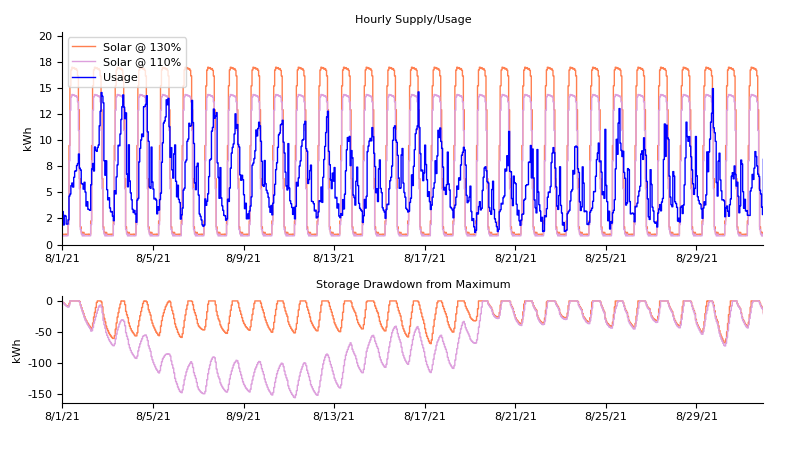
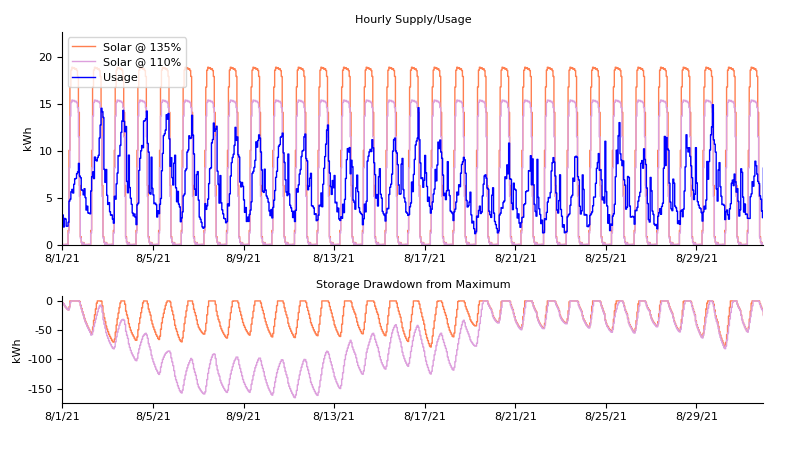
many updates to storage post

diff --git a/energyStorage.py b/energyStorage.py
@@ -25,7 +25,7 @@ class SupplyGenerator:
         
     def period_average(self, multiplier = 1.0):
         period_average = np.average(self.usage)
-        print(f"period average {period_average:0.1f}") 
+        print(f"period average {period_average:0.2f}") 
         function = [multiplier * period_average for dt in self.times]
         return function
 
@@ -67,10 +67,14 @@ class SupplyGenerator:
         return function
 
 
-    def solar_function(self, path: str, multiplier = 1.0):
+    def solar_function(self, path: str, multiplier = 1.0, night_generation_shift = True):
         total_usage = sum(self.usage)
-        
+
         df_solar = pd.read_csv(path)
+
+        if night_generation_shift:
+            df_solar = df_solar.apply(lambda x: x - x.min())
+            df_solar.to_csv("test.csv")
 
         timezone = pytz.timezone("America/Los_Angeles")
         months = [dt.strftime("%b") for dt in self.times]
@@ -94,11 +98,14 @@ class SupplyGenerator:
 class StorageAnalyzer():
 
     def plotStorageAnalysis(self,
+                            datetimes: List,
+                            usage,
                             supply_series: List,
                             storage_balance_series: List,
                             labels: List[str] = None,
                             colors: List = None,
                             legend_position: str = "upper left",
+                            periodicity_label = "Hourly",
                             path: str = None):
 
         if colors is None:
@@ -115,7 +122,7 @@ class StorageAnalyzer():
         fig.tight_layout(pad = 2.5)
 
         max_supply = max([max(x) for x in supply_series])
-        ax[0].set_ylim((0,1.2*max(max(self.usage), max_supply)))
+        ax[0].set_ylim((0,1.2*max(max(usage), max_supply)))
         ax[0].set_xlim(self.times[0], self.times[-1])
         ax[1].set_xlim(self.times[0], self.times[-1])
                         
@@ -133,22 +140,20 @@ class StorageAnalyzer():
         ax[1].set_ylabel(self.units)
 
         ax[0].xaxis.set_major_formatter(DateFormatter('%-m/%-d/%y'))
-#        ax[0].xaxis.set_major_locator(plt.MaxNLocator(6))
 
         ax[1].xaxis.set_major_formatter(DateFormatter('%-m/%-d/%y'))
-#        ax[1].xaxis.set_major_locator(plt.MaxNLocator(6))
 
 
         # plot usage once, applies to all
 
         for supply, storage_balance, color, label in zip(supply_series, storage_balance_series, colors, labels):
-            ax[0].step(self.times, supply, where = "post", label = label, color = color, linewidth=1)
-            ax[1].step(self.times, storage_balance, where = "post", color = color, linewidth=1)
+            ax[0].step(datetimes, supply, where = "post", label = label, color = color, linewidth=1.0)
+            ax[1].step(datetimes, storage_balance, where = "post", color = color, linewidth=1)
 
-        ax[0].step(self.times, self.usage, where = "post", label = "Usage", color = "blue", linewidth=1)
+        ax[0].step(datetimes, usage, where = "post", label = "Usage", color = "blue", linewidth=1)
 
         ax[0].legend(loc = legend_position)
-        ax[0].set_title("Hourly Supply/Usage", fontsize = 8)
+        ax[0].set_title(f"{periodicity_label} Supply/Usage", fontsize = 8)
         ax[1].set_title("Storage Drawdown from Maximum", fontsize = 8)
 
         if path is not None:
@@ -177,9 +182,15 @@ class StorageAnalyzer():
                      legend_position = "upper left",
                      path: str = None,
                      colors: List[str] = None,
-                     print_series = False):
+                     hourly = True, # hourly if True, daily if False
+                     print_summary = False,
+                     print_hourly = False):
+
         supply_series = []
         storage_balance_series = []
+        usage = self.usage
+        datetimes = self.times
+                    
         for generator_function in generator_functions:
             supply = generator_function()
             net_to_storage = [s - u for (s, u) in zip(supply, self.usage)]
@@ -189,32 +200,51 @@ class StorageAnalyzer():
                 prev = 0 if i == 0 else storage_balance[i-1]
                 storage_balance[i] = min(0, prev + net_to_storage[i])
 
-            supply_series.append(supply)
-            storage_balance_series.append(storage_balance)
-            
 
-            if print_series:
-                df = pd.DataFrame({"Times": self.times,
-                                   "Date": [t.date() for t in self.times],
-                                   "Usage": self.usage,
-                                   "Supply": supply,
-                                   "Storage Balance": storage_balance})
-                
-                grouped =  df.groupby("Date")["Usage"].sum(numeric_only = True).reset_index()
-                print(grouped[["Date", "Usage"]])
+            # prep Data Frame
+            df = pd.DataFrame({"Time": self.times,
+                               "Date": [t.date() for t in self.times],
+                               "Usage": self.usage,
+                               "Supply": supply,
+                               "Storage Balance": storage_balance})
+                                         
+            if hourly == True:
+                supply_series.append(supply)
+                storage_balance_series.append(storage_balance)
+            else: # group by day
+                grouped = df.groupby("Date").agg({"Usage": "sum", "Supply": "sum", "Storage Balance": "min"}).reset_index()
+                datetimes = list(grouped["Date"])
+                usage = list(grouped["Usage"])
+                supply_series.append(list(grouped["Supply"]))
+                storage_balance_series.append(list(grouped["Storage Balance"]))
 
-            print(f"Largest Storage Drawdown: {min(storage_balance):.1f} {self.units} ")
-            print(f"Sum usage: {sum(self.usage):,.1f} {self.units}")
-            print(f"Max usage: {max(self.usage):,.1f} {self.units}")
-            print(f"Sum supply: {sum(supply):,.1f} {self.units}")
-            print(f"Average supply: {np.average(supply):,.1f} {self.units}")
+            if print_hourly:
+                print(df)
+
+            if print_summary:                
+                grouped = df.groupby("Date").agg({"Usage": "sum", "Supply": "sum", "Storage Balance": "min"}).reset_index()
+                print(f"Largest Storage Drawdown: {min(storage_balance):.1f} {self.units} ")
+                print(f"Sum usage: {sum(self.usage):,.2f} {self.units}")
+                print(f"Average usage: {np.mean(self.usage):,.2f} {self.units}")
+                print(f"Max Hour usage: {max(self.usage):,.2f} {self.units}")
+                print(f"Sum supply: {sum(supply):,.1f} {self.units}")
+                print(f"Average supply: {np.average(supply):,.2f} {self.units}")
+                print(f"Max hourly supply: {np.max(supply):,.2f} {self.units}")
+                usage_days_above_supply = len([1 for u, s in zip(grouped["Usage"], grouped["Supply"]) if u > s])
+                print(f"Usage days above supply: {usage_days_above_supply}")
+                non_zero_storage_days = len([1 for sb in grouped["Storage Balance"] if sb < 0])
+                print(f"Non-zero storage days: {non_zero_storage_days}\n")
 
 
-        self.plotStorageAnalysis(supply_series,
+        periodicity_label = "Hourly" if hourly else "Daily"
+        self.plotStorageAnalysis(datetimes,
+                                 usage,
+                                 supply_series,
                                  storage_balance_series,
                                  labels = labels,
                                  legend_position = legend_position,
                                  path = path,
+                                 periodicity_label = periodicity_label,
                                  colors = colors)
 
   

diff --git a/post_storage.py b/post_storage.py
@@ -39,64 +39,72 @@ if __name__ == "__main__":
     start = datetime(2021, 8, 1)
     end = datetime(2021, 8, 31)
 
-    
     analyzer_kramer = StorageAnalyzer(kramer_hourly, start, end, "kWh")
     analyzer_kramer.apply_supply([lambda: analyzer_kramer.supplyGenerator.typical_daily_peak(1.0)],
-                          ["Typical Daily Peak"],
-                          path = f"post5/post5_KramerMedianPeak.png",
-                          print_series = False)
+                                 ["Typical Daily Peak"],
+                                 path = f"post5/post5_KramerMedianPeak.png",
+                                 hourly = True,
+                                 print_summary = False,
+                                 print_hourly = True)
     
     solar_data_path = "post4/NV_ideal_solar_capacity.csv"
     
-    analyzer_kramer.apply_supply([lambda: analyzer_kramer.supplyGenerator.solar_function(solar_data_path, 1.3),
-                           lambda: analyzer_kramer.supplyGenerator.solar_function(solar_data_path, 1.1)],
-                          labels = ["Solar @ 130%", "Solar @ 110%"],
-                          colors = ["coral", "plum"],
-                          path = f"post5/post5_KramerSolar.png",
-                          print_series = False
-                          )
+    analyzer_kramer.apply_supply([lambda: analyzer_kramer.supplyGenerator.solar_function(solar_data_path, 1.35),
+                                  lambda: analyzer_kramer.supplyGenerator.solar_function(solar_data_path, 1.1)],
+                                 labels = ["Solar @ 135%", "Solar @ 110%"],
+                                 colors = ["coral", "plum"],
+                                 path = f"post5/post5_KramerSolar.png",
+                                 print_summary = True
+                                 )
     
 
-#    start = datetime(2022, 1, 1)
-#    end = datetime(2022, 12, 31)
-
-#    analyzer = StorageAnalyzer(kramer_hourly, start, end, "kWh")
-#    analyzer.apply_supply([lambda: analyzer.supplyGenerator.typical_daily_peak(1.0, statistic = "average"),
-#                           lambda: analyzer.supplyGenerator.typical_daily_peak(1.0, statistic = "average", date_subset = [datetime(2022, 6, 1), datetime(2022, 9, 30)]),
-#                           lambda: analyzer.supplyGenerator.typical_daily_peak(1.2, statistic = "average", date_subset = [datetime(2022, 6, 1), datetime(2022, 9, 30)])],
-#                          labels = ["1.0x Full Year Avg. Peak", "1.0x Summer Avg. Peak", "1.2x Summer Avg. Peak"])
-
-
-
-    jan122 = datetime(2021, 11, 1)
-    jan123 = datetime(2023, 2, 1)
+    year_start = datetime(2021, 11, 1)
+    year_end = datetime(2022, 11, 1)
     paths = []
-    d = jan122
-    while d < jan123:
+    d = year_start
+    while d < year_end:
         paths.append(f"./statewide_demand/NVPower_demand_{d.year}_{d.month:02}.csv")
         d = d + relativedelta(months = +1)
     hourly_NV = EIARegionUsage(paths)
 
-    analyzer_NV = StorageAnalyzer(hourly_NV, datetime(2021, 11, 1), datetime(2022, 11, 1), hourly_NV.units)
+    analyzer_NV = StorageAnalyzer(hourly_NV, year_start, year_end, hourly_NV.units)
     analyzer_NV.apply_supply([lambda: analyzer_NV.supplyGenerator.typical_daily_peak(1.0, statistic = "average", date_subset = [datetime(2022, 6, 1), datetime(2022, 9, 30)]),
                               lambda: analyzer_NV.supplyGenerator.top_percentile_days(percentile = 0.95)],
-                             labels = ["Average Summer Daily Peak", "95th Percentile Peaks"],
+                             labels = ["Avg. Summer Daily Peak (163%)", "95th Percentile Peak (186%)"],
                              colors = ["coral", "plum"],
-                             path = f"post5/post5_NVPeaks.png",
-                             print_series = False)
-    
-    ratio = 1.4
+                             path = f"post5/post5_NV_HighFixed.png",
+                             hourly = True,
+                             print_summary = True)
 
-    analyzer_NV.apply_supply([lambda: analyzer_NV.supplyGenerator.period_average(ratio)],
-                             labels = [f"Fixed @ {100*ratio:.0f}%"],
-                             colors = ["coral"])
-                             
-    analyzer_NV.apply_supply([lambda: analyzer_NV.supplyGenerator.solar_function(solar_data_path, ratio)],
-                             labels = [f"Solar @ {100*ratio:.0f}%"],
-                             colors = ["coral"])
-    
-    analyzer_NV.apply_supply([lambda: analyzer_NV.supplyGenerator.blend_fixed_solar(solar_data_path, ratio, solar_share = 0.5)],
-                             labels = [f"50/50 Solar and Fixed @ {100*ratio:.0f}%"],
-                             colors = ["coral"])
+    ratio1 = 1.5
+    ratio2 = 1.35
+
+    print(f"\n Fixed @ {100*ratio1:.0f}% and {100*ratio2:.0f}%")
+    analyzer_NV.apply_supply([lambda: analyzer_NV.supplyGenerator.period_average(ratio1),
+                              lambda: analyzer_NV.supplyGenerator.period_average(ratio2)],
+                             labels = [f"Fixed @ {100*ratio1:.0f}% average", f"Fixed @ {100*ratio2:.0f}% average"],
+                             colors = ["slateblue", "limegreen"],
+                             path = f"post5/post5_NV_MediumFixed.png",
+                             hourly = False,
+                             print_summary = True)
+
+
+    print(f"\n Solar @ {100*ratio1:.0f}% and {100*ratio2:.0f}%")
+    analyzer_NV.apply_supply([lambda: analyzer_NV.supplyGenerator.solar_function(solar_data_path, ratio1),
+                              lambda: analyzer_NV.supplyGenerator.solar_function(solar_data_path, ratio2)],
+                             labels = [f"Solar @ {100*ratio1:.0f}% average", f"Solar @ {100*ratio2:.0f}% average"],
+                             colors = ["slateblue", "limegreen"],
+                             path = f"post5/post5_NV_MediumSolar.png",
+                             hourly = False,
+                             print_summary = True)
+
+
+    print(f"\n Blend @ {100*ratio1:.0f}%")
+    analyzer_NV.apply_supply([lambda: analyzer_NV.supplyGenerator.blend_fixed_solar(solar_data_path, ratio1, solar_share = 0.2)],
+                             labels = [f"20% Solar / 80% Fixed @ {100*ratio1:.0f}%"],
+                             colors = ["purple"],
+                             hourly = False,
+                             path = f"post5/post5_NV_80-20.png",
+                             print_summary = True)
 
     

diff --git a/post4_solar.py b/post4_solar.py
@@ -38,6 +38,7 @@ def prepChart(dims):
     return fig, ax
 
 
+TOP_N = 3
 
 def dailyGenerationChart(eiag: EIAGeneration, starts: List[datetime], ends: List[datetime], plot_titles: List[str], path: str):
     plots = len(starts)
@@ -50,7 +51,7 @@ def dailyGenerationChart(eiag: EIAGeneration, starts: List[datetime], ends: List
 
     for start, end, ax, title in zip(starts, ends, axes, plot_titles):
         dates, totals = eiag.dailyTotals(start, end)
-        dates2, totals2 = eiag.topNOnly(start, end, N=3)
+        dates2, totals2 = eiag.topNOnly(start, end, N=TOP_N)
         if max(totals) > maxy: maxy = max(totals)
 
         ax.tick_params(axis =  "both", which = "major", labelsize = 7)
@@ -116,9 +117,12 @@ if __name__ == "__main__":
 
     days, generations = eiag.allHoursInDays(july1, aug1)
     _, avgs = eiag.averageDayInPeriod(july1, aug1)
-    _, avgs_top = eiag.averageDayInPeriodFiltered(july1, aug1, 3)
-    _, avgs_hour = eiag.averageDayInPeriodFilteredHourly(july1, aug1, 3)
+    _, avgs_top = eiag.averageDayInPeriodFiltered(july1, aug1, TOP_N)
+    _, avgs_hour = eiag.averageDayInPeriodFilteredHourly(july1, aug1, TOP_N)
 
+    print(avgs)
+    print(avgs_top)
+    print(avgs_hour)
     
     y_values = generations + [avgs, avgs_top, avgs_hour]
     
@@ -159,7 +163,7 @@ if __name__ == "__main__":
         _, avgs = eiag.averageDayInPeriod(s, e)
         y_values_list.append(avgs)
         
-        _, avgs_hour = eiag.averageDayInPeriodFilteredHourly(s, e, 3)
+        _, avgs_hour = eiag.averageDayInPeriodFilteredHourly(s, e, TOP_N)
         y_values_list_top.append(avgs_hour)
 
         df[s.strftime("%b")] = avgs_hour
@@ -283,7 +287,7 @@ if __name__ == "__main__":
             s = start + relativedelta(months = month)
             e = s + relativedelta(months = +1)
             _, avgs = eiag.averageDayInPeriod(s, e)
-            _, avgs_top = eiag.averageDayInPeriodFilteredHourly(s, e, 3)
+            _, avgs_top = eiag.averageDayInPeriodFilteredHourly(s, e, TOP_N)
             actuals_lists[BA].append(avgs)
             capacities_lists[BA].append(avgs_top)
             
@@ -316,7 +320,7 @@ if __name__ == "__main__":
 
     JUNE = 5 # June
 
-    normalized_hourlies = [(capacities_lists[BA])[JUNE]/max((capacities_lists[BA])[JUNE]) for BA in BAs]
+    normalized_hourlies = [np.divide((capacities_lists[BA])[JUNE], max((capacities_lists[BA])[JUNE])) for BA in BAs]
     above_75 = [f"{sum([1 if x >= 0.9 else 0 for x in normalized_hourly]):.2f}" for normalized_hourly in normalized_hourlies]
     print("Hours generating at least 75% of max power:")
     print(BAs, above_75)

diff --git a/eiaGeneration.py b/eiaGeneration.py
@@ -55,7 +55,6 @@ class EIAGeneration:
         fil = self.df["Start Time"].apply(lambda d: (start <= d and d < end and include_day[d.date()]))
         df_filtered = self.df[fil]
         hour_averages = (df_filtered.groupby("Hour"))["Solar Generation (MWh)"].mean(numeric_only = True).reset_index()
-        
         return (hour_averages["Hour"].copy(), hour_averages["Solar Generation (MWh)"].copy())
 
 
@@ -64,7 +63,14 @@ class EIAGeneration:
         df_filtered = self.df[fil]
         hour_N_highest = (df_filtered.groupby("Hour"))["Solar Generation (MWh)"].nlargest(n = N).reset_index()
         hour_N_highest_avg = (hour_N_highest.groupby("Hour"))["Solar Generation (MWh)"].mean(numeric_only = True).reset_index().copy()
-        return (hour_N_highest_avg["Hour"].copy(), hour_N_highest_avg["Solar Generation (MWh)"])   
+
+        __, regular_averages = self.averageDayInPeriod(start, end)
+        daily_max = max(regular_averages)
+
+
+#        night_corrected = [(reg if reg < 0.05*daily_max else peak) for reg, peak in zip(regular_averages, hour_N_highest_avg["Solar Generation (MWh)"])]
+       
+        return (hour_N_highest_avg["Hour"].copy(), hour_N_highest_avg["Solar Generation (MWh)"])
 
 
     def maxOutput(self, N = 1):
